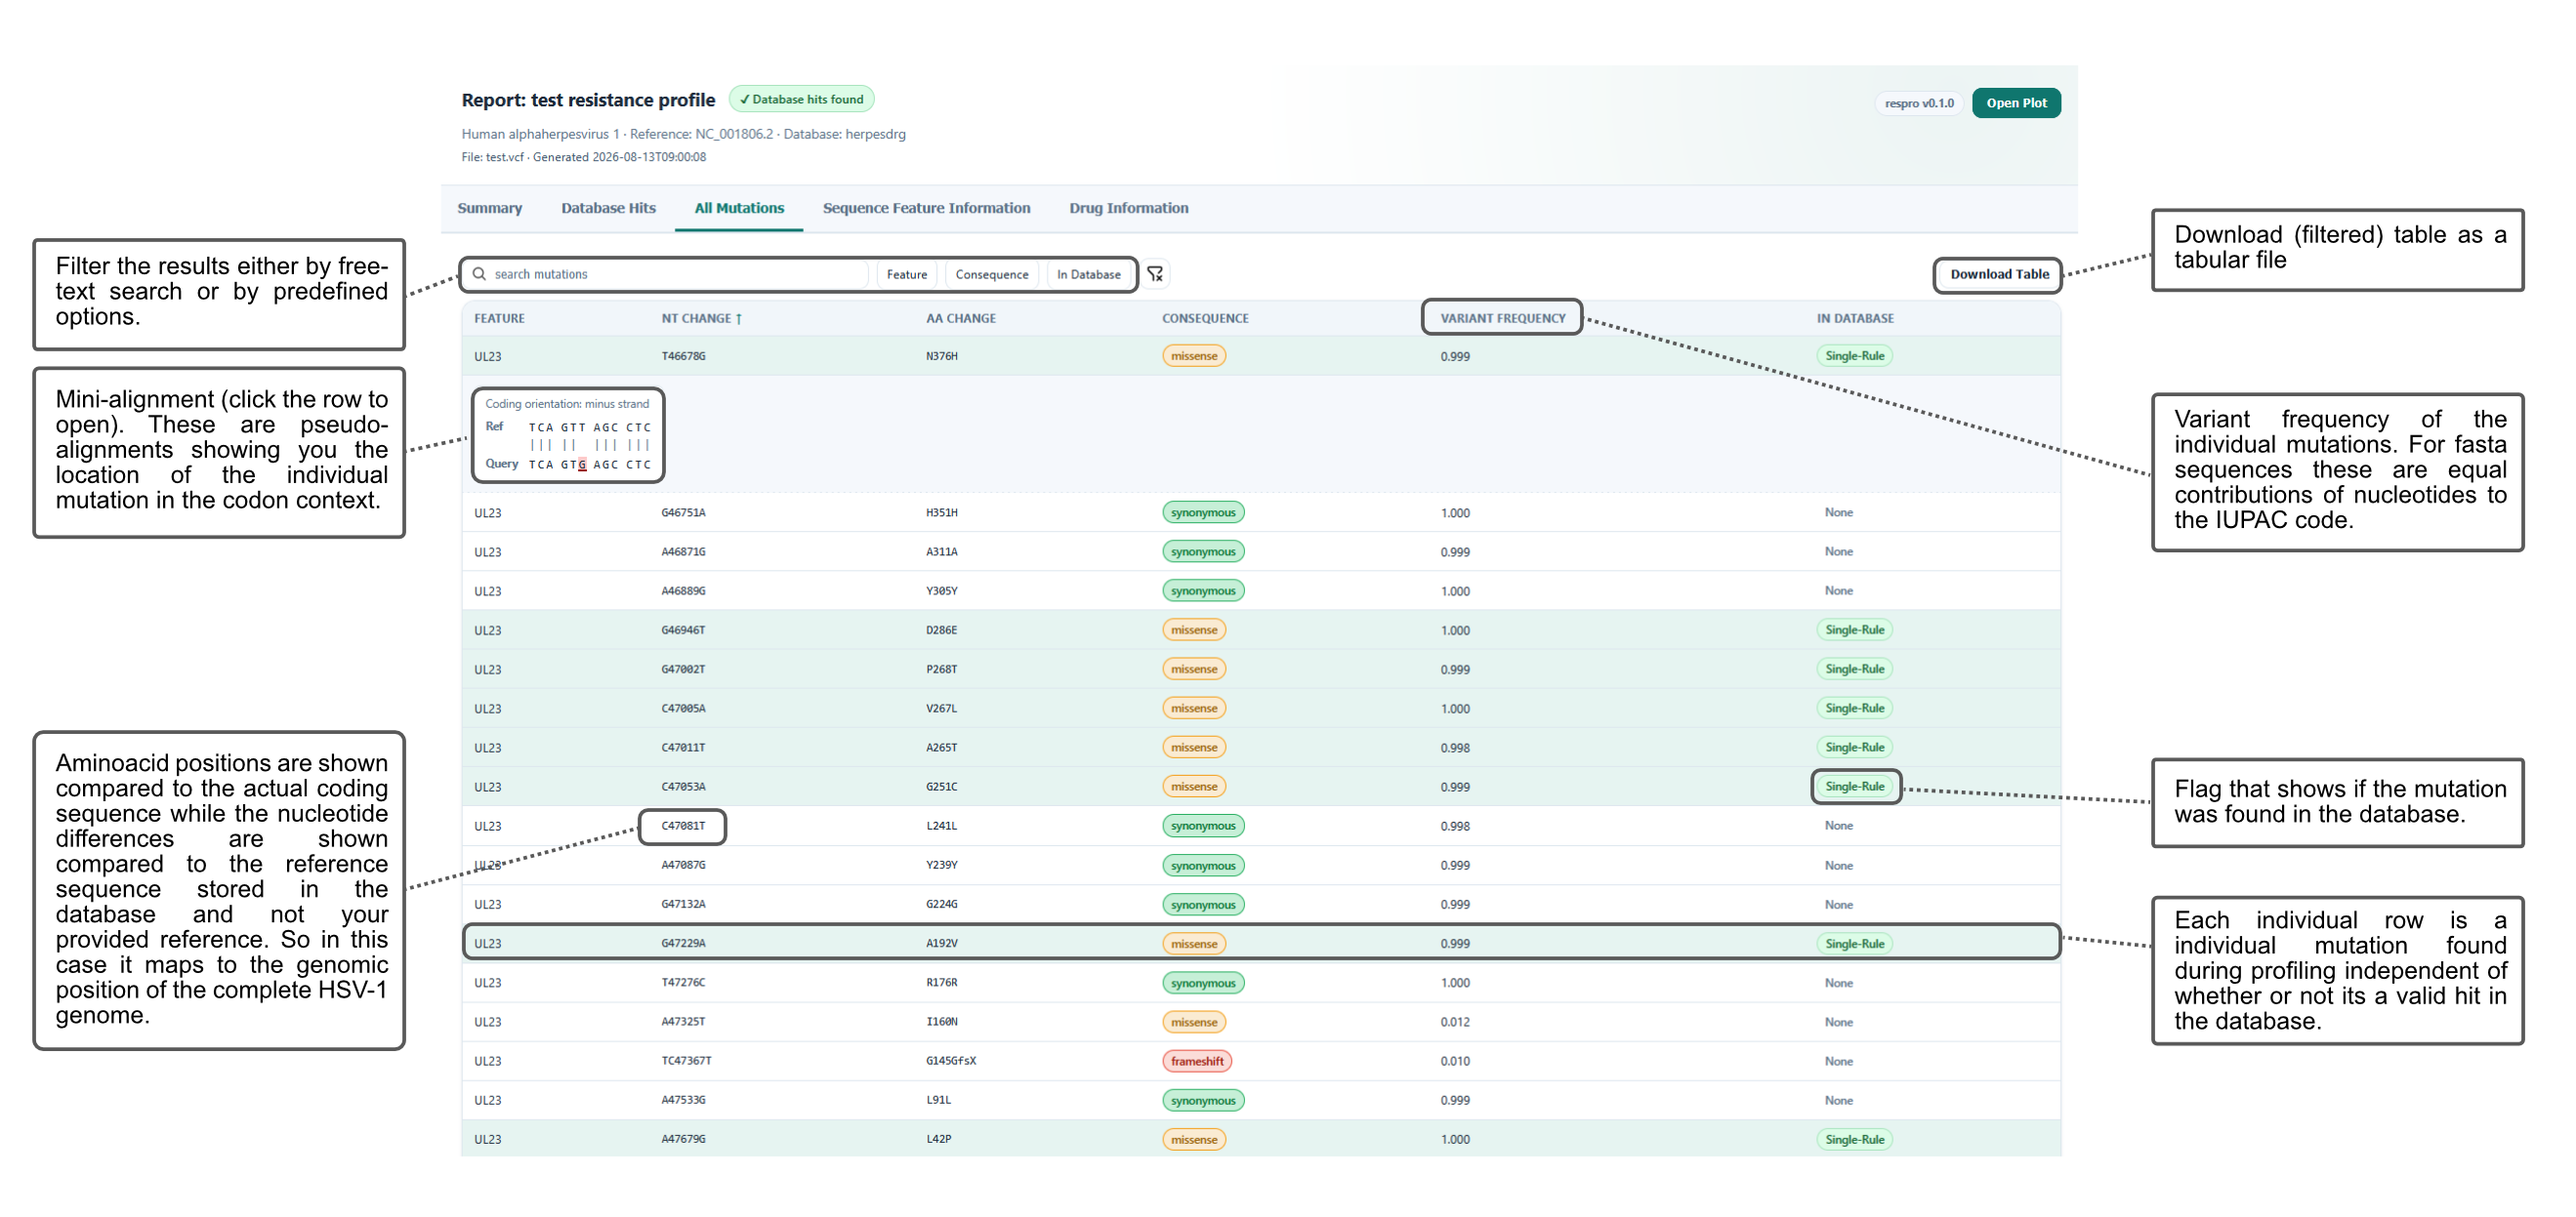
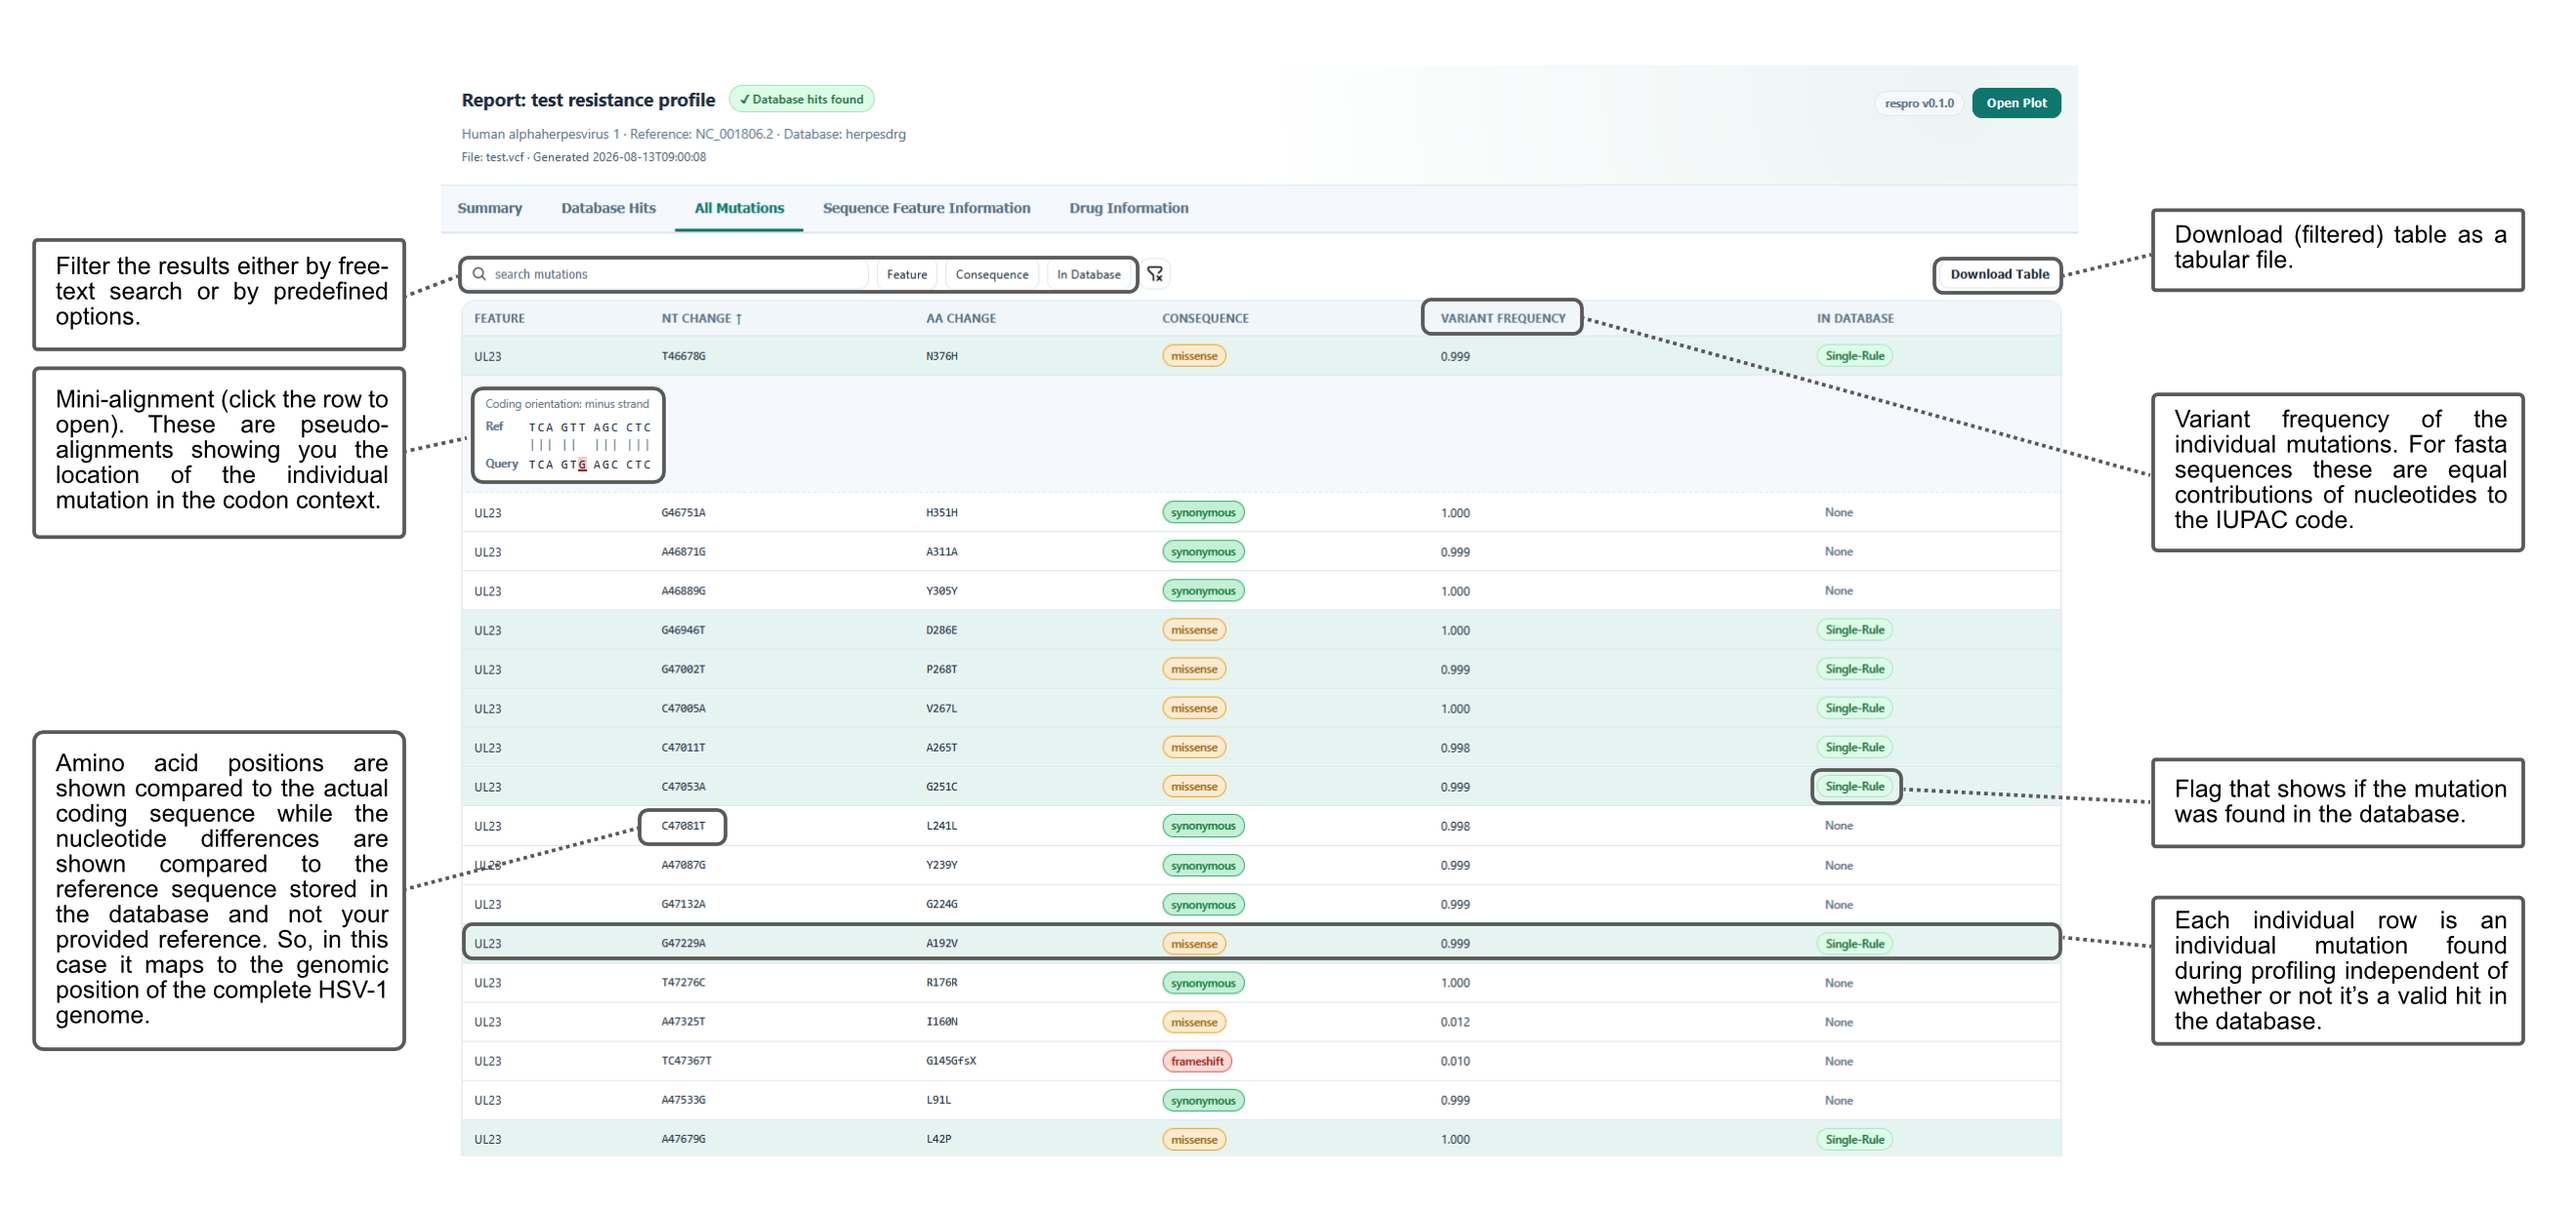
finalized tour and docs

Changed region(s): [[0.0, 0.6095, 0.1554, 0.7923], [0.8704, 0.7314, 0.9636, 0.7618], [0.9014, 0.7923, 0.9636, 0.8228]]

diff --git a/web/frontend/src/components/tour/steps.js b/web/frontend/src/components/tour/steps.js
@@ -144,7 +144,18 @@ export function buildTourSteps({ setActiveMode, setActiveProfileMode, setAnalyze
         setActiveProfileMode('vcf');
       },
     },
-    // 12. Reports — highlight the Reports tile in the sidebar.
+    // 12. Sub-mode toggle — switch from One Sample to Multiple Samples.
+    {
+      id: 'analyze-submode',
+      targetSelector: '.analyze-submode-row',
+      title: 'One sample or many',
+      body: 'Use this toggle to switch between "One Sample" (what you just saw) and "Multiple Samples". The batch mode lets you submit up to 25 VCF or FASTA files at once with a shared reference, per-sample BAMs, and a single set of cutoffs — ideal when you have a plate or folder of samples to profile together.',
+      before: () => {
+        setActiveMode('analyze');
+        setAnalyzeSubMode('single');
+      },
+    },
+    // 13. Reports — highlight the Reports tile in the sidebar.
     {
       id: 'reports-table',
       targetSelector: '[data-tour-target="sidebar-results"]',
@@ -152,7 +163,7 @@ export function buildTourSteps({ setActiveMode, setActiveProfileMode, setAnalyze
       body: 'Every analysis from this session is listed in the Reports tab (results are cleared on page reload). Each row links to its HTML report and offers PDF and JSON downloads. Use "Download all" or select rows and "Download selected" for a bundle.',
       before: () => setActiveMode('results'),
     },
-    // 13. Comparison — highlight the Reports tile (same tab, comparison lives below the table).
+    // 14. Comparison — highlight the Reports tile (same tab, comparison lives below the table).
     {
       id: 'comparison-heatmap',
       targetSelector: '[data-tour-target="sidebar-results"]',
@@ -160,7 +171,7 @@ export function buildTourSteps({ setActiveMode, setActiveProfileMode, setAnalyze
       body: 'As soon as you have results, you can select two or more comparable results (same database and reference), then "Compare selected" to build a mutation heatmap. Use "Select all comparable" to pick everything that matches, toggle "Non-synonymous only" or "DB hits only" to filter, and "Clear comparison" to start over. This view lives below the results table.',
       before: () => setActiveMode('results'),
     },
-    // 14. Database Dashboard — highlight the Database tile in the sidebar.
+    // 15. Database Dashboard — highlight the Database tile in the sidebar.
     {
       id: 'database-dashboard',
       targetSelector: '[data-tour-target="sidebar-database"]',
@@ -168,7 +179,7 @@ export function buildTourSteps({ setActiveMode, setActiveProfileMode, setAnalyze
       body: 'The Database Dashboard tab summarises the rules and mutations in the selected database with interactive plots.',
       before: () => setActiveMode('database'),
     },
-    // 15. Browse Mutations — highlight the Mutations tile in the sidebar.
+    // 16. Browse Mutations — highlight the Mutations tile in the sidebar.
     {
       id: 'browse-mutations',
       targetSelector: '[data-tour-target="sidebar-mutations"]',
@@ -176,7 +187,7 @@ export function buildTourSteps({ setActiveMode, setActiveProfileMode, setAnalyze
       body: 'The Browse Mutations tab lets you search and filter the single and combination rules in the selected database, and export them as TSV.',
       before: () => setActiveMode('mutations'),
     },
-    // 16. About — highlight the About tile in the sidebar.
+    // 17. About — highlight the About tile in the sidebar.
     {
       id: 'about',
       targetSelector: '[data-tour-target="sidebar-about"]',
@@ -184,12 +195,12 @@ export function buildTourSteps({ setActiveMode, setActiveProfileMode, setAnalyze
       body: 'The About tab explains how ResistanceProfiler works, the rule nomenclature, and how to run it from the CLI.',
       before: () => setActiveMode('about'),
     },
-    // 17. Final step — highlight nothing; link to official GitHub docs for full detail.
+    // 18. Final step — highlight nothing; link to official GitHub docs for full detail.
     {
       id: 'docs-handoff',
       targetSelector: null,
       title: 'Want the full detail?',
-      body: 'This tour covers the essentials. For in-depth explanations of every output, the results table, report downloads, and the comparison heatmap, read the ',
+      body: 'This tour covers the essentials. For in-depth explanations read the ',
       before: () => setActiveMode('about'),
       link: { label: 'official documentation.', href: TOUR_DOCS_OUTPUT_URL },
     },

diff --git a/web/frontend/src/components/tour/tour.test.jsx b/web/frontend/src/components/tour/tour.test.jsx
@@ -24,6 +24,7 @@ function TourApp({ steps, setActiveMode, setActiveProfileMode, setAnalyzeSubMode
           <div className="profile-analyze-row" data-testid="target-analyze" />
         </div>
         <div className="analyze-report-actions" data-testid="target-reports" />
+        <div className="analyze-submode-row" data-testid="target-submode" />
         <div data-tour-target="sidebar-results" data-testid="target-sidebar-results" />
         <div data-tour-target="sidebar-database" data-testid="target-sidebar-database" />
         <div data-tour-target="sidebar-mutations" data-testid="target-sidebar-mutations" />

diff --git a/web/frontend/src/components/tour/steps.test.js b/web/frontend/src/components/tour/steps.test.js
@@ -10,7 +10,7 @@ describe('buildTourSteps', () => {
       setAnalyzeSubMode: vi.fn(),
     });
     expect(Array.isArray(steps)).toBe(true);
-    expect(steps.length).toBe(17);
+    expect(steps.length).toBe(18);
 
     // Spot-check the required step ids are present in order.
     const ids = steps.map((s) => s.id);
@@ -26,6 +26,7 @@ describe('buildTourSteps', () => {
       'regenerate-mode',
       'analyze-button',
       'previous-reports',
+      'analyze-submode',
       'reports-table',
       'comparison-heatmap',
       'database-dashboard',

diff --git a/web/frontend/src/styles.css b/web/frontend/src/styles.css
@@ -2584,7 +2584,9 @@ th.sortable-col {
 .tour-spotlight {
   position: fixed;
   border-radius: 10px;
-  box-shadow: 0 0 0 9999px rgba(15, 23, 32, 0.28);
+  box-shadow:
+    0 0 0 9999px rgba(15, 23, 32, 0.28),
+    inset 0 0 0 9999px rgba(255, 255, 255, 0.12);
   border: 2px solid var(--accent);
   transition: all 0.15s ease-out;
   pointer-events: none;
